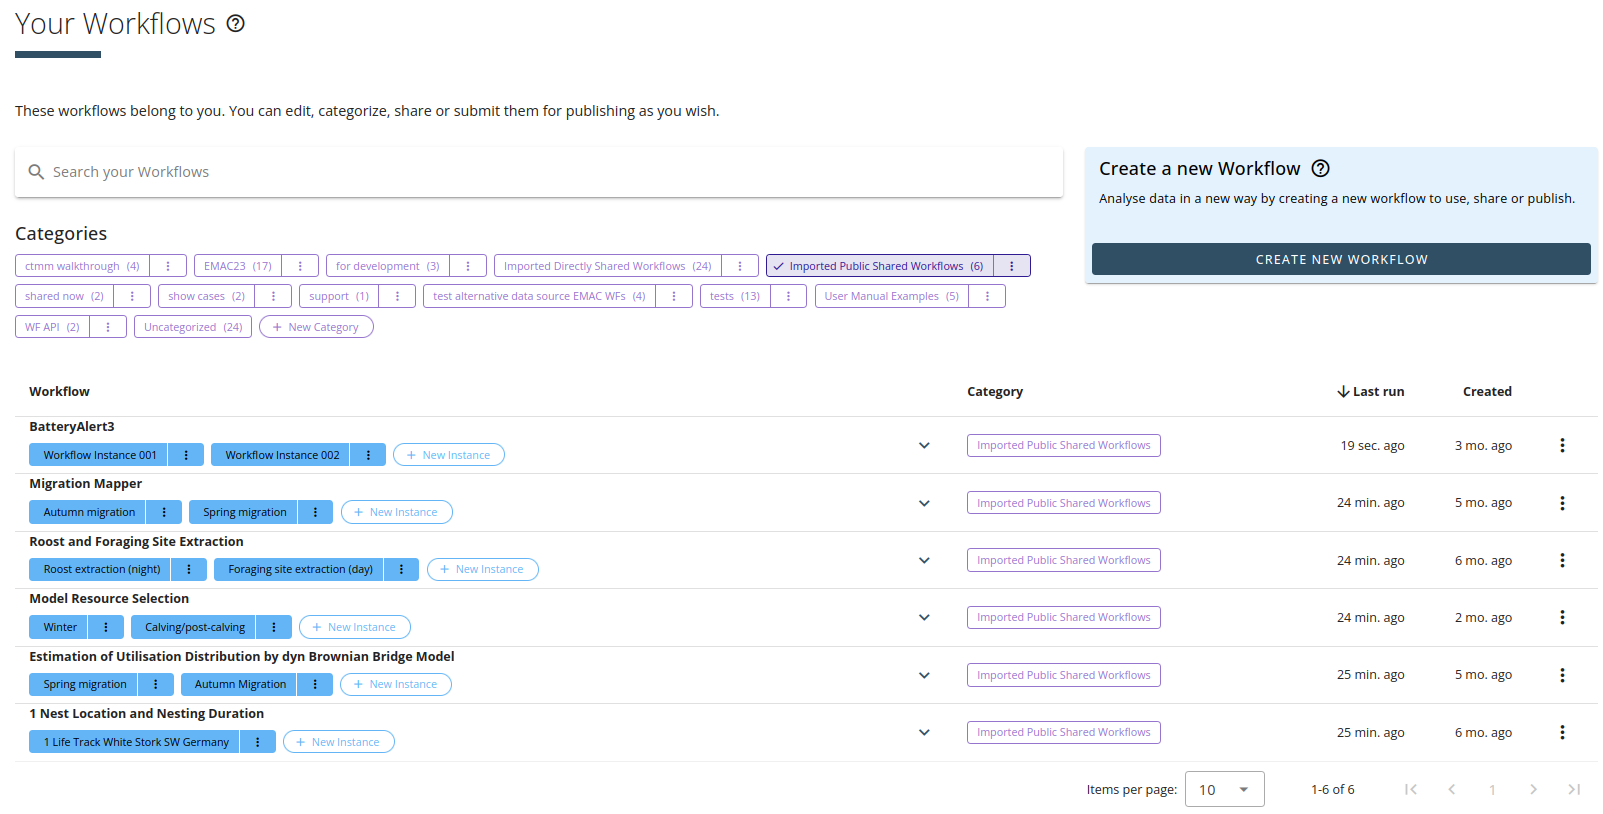
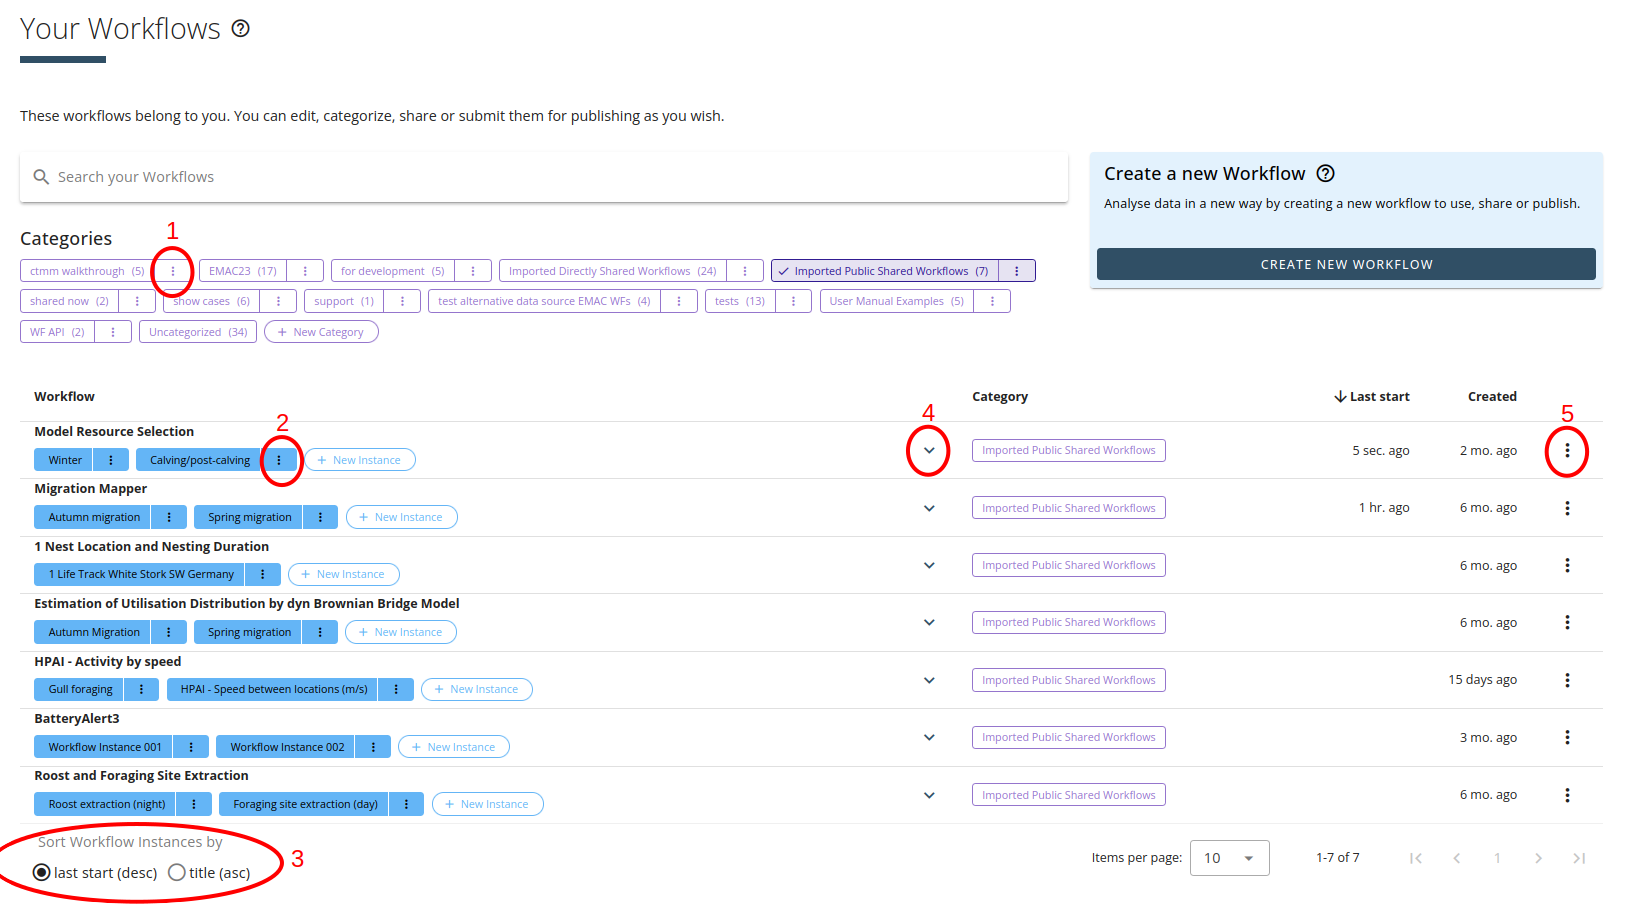
update your workflow section

diff --git a/create_workflow.md b/create_workflow.md
@@ -154,23 +154,19 @@ Workflows can be grouped by assigning them a Workflow Category name. If no Categ
 
 ## Overview of 'Your Workflows'
 
-<kbd>![](files/yourWF_overview.png ':size=600x')</kbd>
+<kbd>![](files/yourWF_overview.png ':size=800x')</kbd>
 
-**Search:** you can search in the title and description of your Workflows and Workflow instances
-
-<kbd>![](files/yourWFtable_categories2.png ':size=500x')</kbd>
+**Search:** you can search in the title and description of your Workflows and Workflow instances.
 
 **Categories:** display of all categories. You can select one category at a time, edit them via the menu (1) or add a new category. The number next to each category name is the number of Workflows that have this category assigned. If non are selected, all Workflows will be displayed in the table below.
 
-<kbd>![](files/yourwf_table2.png ':size=500x')</kbd>
+**Table**: you can use each column to order your workflows. If Workflow instance names are long, it might happen that the table does not fit into your window size and seems to be cut off, you can use bar at the bottom of the table to move the table left and right, or reduce the zoom in your browser to see the entire table.
 
-**Table**: you can use each column to order your workflows. If Workflow instance names are long, it might happen that the table does not fit into your window size and seems to be cut off, you can use bar at the bottom of the table to move the table left and right.
-
-- **Workflow**: in this column all Workflows with their respective Workflow instances are displayed. By clicking on a Workflow instance name you will open it. Each Workflow instance can be edited via the menu (2). The instances can be ordered by 'last start', i.e. how long ago you last clicked the button `Start` or `Rerun`, or when a scheduled instance started, or alphabetically. Selection is possible at the bottom ob the table. On the right side of this column you can click to see the Workflow and Workflow instance description (3). The menu (4) to edit and share the Workflow can be found at the end of the table next to the column `Category`.
+- **Workflow**: in this column all Workflows with their respective Workflow instances are displayed. By clicking on a Workflow instance name you will open it. Each Workflow instance can be edited via the menu (2). At the bottom of the table (3) you can select if the instances within each Workflow should be ordered alphabetically or by 'last start', i.e. how long ago you last clicked the button `Start` or `Rerun`, or a scheduled instance started. On the right end of the Workflow column you can click (4) to see the Workflow and Workflow instance description. The menu (5) to edit and share the Workflow can be found at the right side of the table.
 
 - **Category**: in this column the categories are displayed, select a category by clicking on it.
 
-- **Last start**: this column displays how long ago you last clicked the button `Start` or `Rerun`, or when a scheduled instance started of a instance of the Workflow
+- **Last start**: this column displays, for any instance of the Workflow, how long ago you last clicked the button `Start` or `Rerun`, or a scheduled instance started.
 
 - **Created**: this column displays how long ago the Workflow was created.
 
